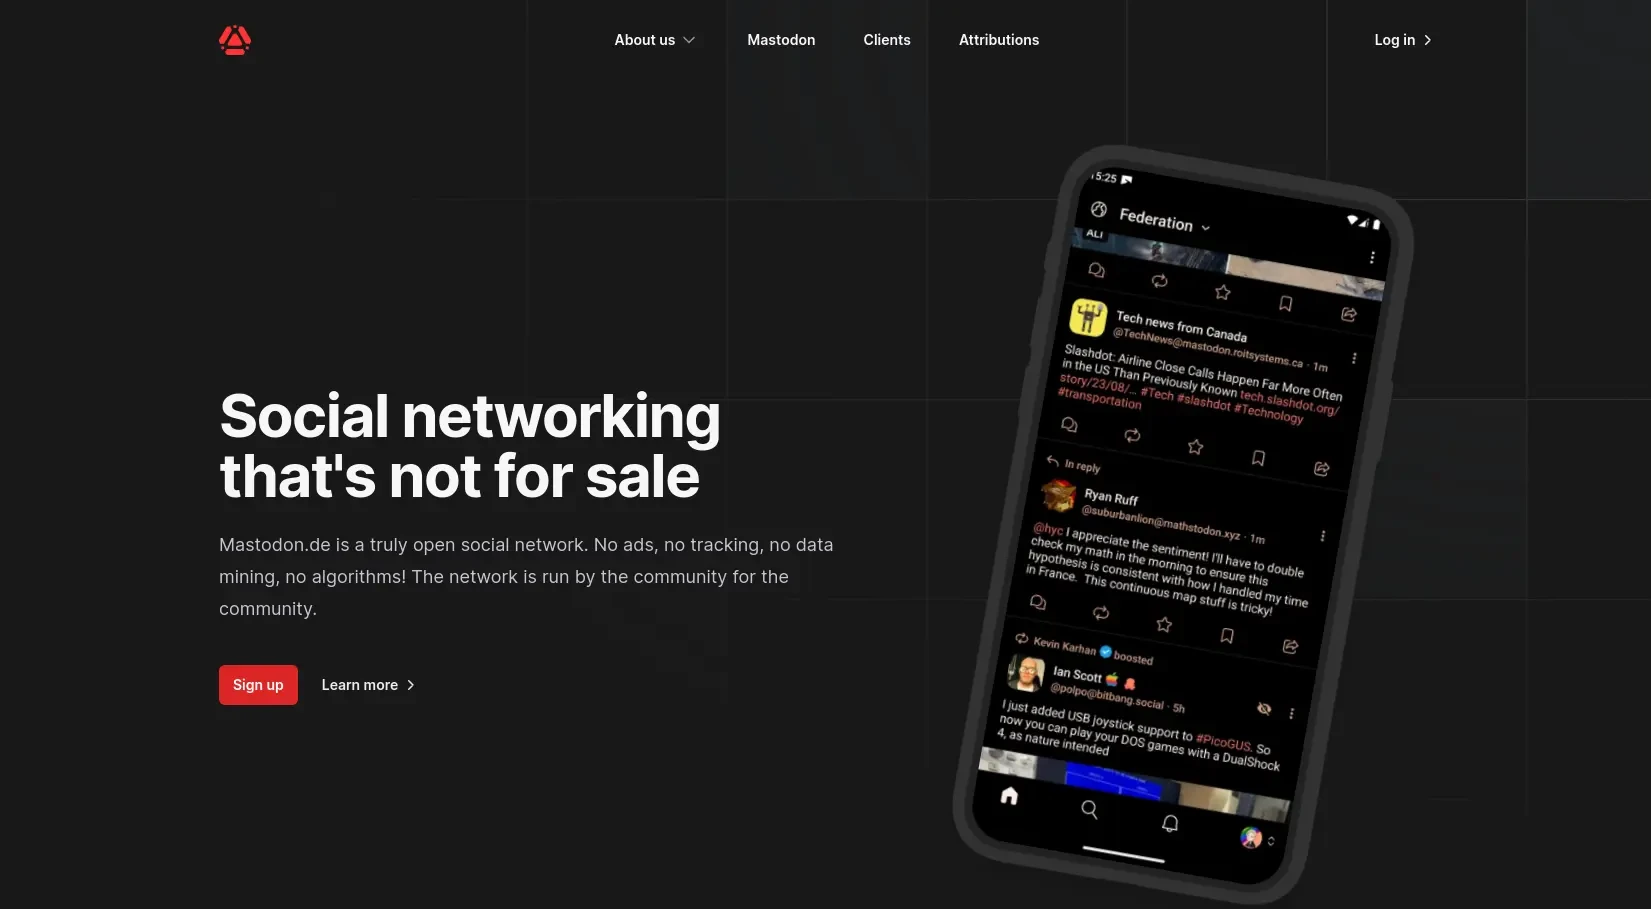
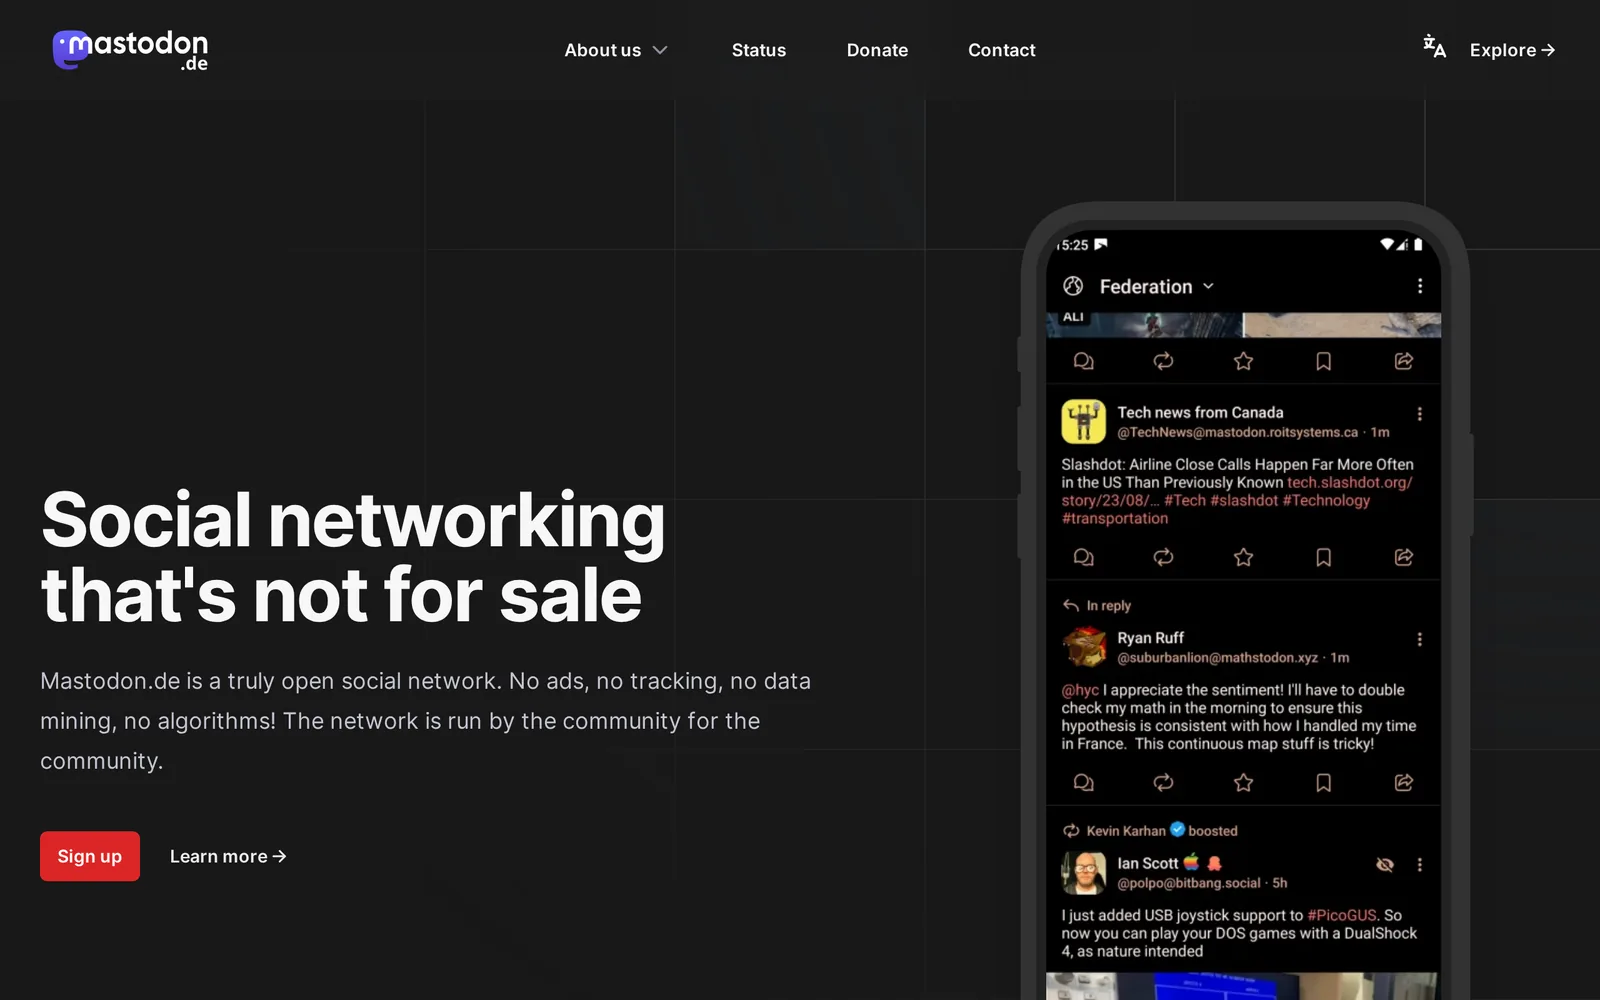
content: Refresh project screenshots

diff --git a/src/data/home.ts b/src/data/home.ts
@@ -10,13 +10,16 @@ import type Stat from "@cpluspatch/ui/astro/blocks/stat.astro";
 import type { DisplayEffect } from "@cpluspatch/ui/astro/sections/display/display-menu.astro";
 import type { DialogueNode } from "@cpluspatch/ui/behaviours/interactive-message.ts";
 import type { ComponentProps } from "astro/types";
-import componentScreenshot from "../../docs/assets/gallery-dark.webp";
 import flaviScreenshot from "../images/assets/flavi-screenshot.png";
+import galleryDark from "../images/assets/gallery-dark.webp";
+import galleryLight from "../images/assets/gallery-light.webp";
 import joinMastodonScreenshot from "../images/assets/join-mastodon.de_en.webp";
-import kitsuScreenshot from "../images/assets/kitsudotlife.png";
+import kitsuScreenshot from "../images/assets/kitsu.webp";
 import versiaApiScreenshot from "../images/assets/lysand-apis.png";
-import versiaFeScreenshot from "../images/assets/versia-fe.png";
-import versiaScreenshot from "../images/assets/versia-pub-frontpage.png";
+import versiaDark from "../images/assets/versia-dark.webp";
+import versiaFeDark from "../images/assets/versia-fe-dark.webp";
+import versiaFeLight from "../images/assets/versia-fe-light.webp";
+import versiaLight from "../images/assets/versia-light.webp";
 import versiaServerScreenshot from "../images/assets/versia-readme.png";
 import autumn from "../images/avatars/autumn.webp";
 import calciume from "../images/avatars/calciume.webp";
@@ -162,15 +165,51 @@ export const reviews: {
     },
 ];
 
-export const projects: (ComponentProps<typeof MediaCard> & {
+/**
+ * Versia, featured above the other projects on the home page. Its parts are
+ * the projects whose titles start with "Versia".
+ */
+export const versia = {
+    title: "Versia",
+    /** The site in each scheme, shown to match the reader's. */
+    shots: {
+        light: versiaLight,
+        dark: versiaDark,
+        alt: "The Versia site, headed Federation you can read, with a signed message beside notes on it",
+    },
+    body: "A decentralized federation protocol that focuses on good experience and ease of implementation, and everything around it: the spec, a reference server, a frontend and TypeScript APIs.",
+    links: [
+        { href: "https://versia.pub", icon: "lucide:globe", label: "Website" },
+        {
+            href: "https://github.com/versia-pub",
+            icon: "lucide:github",
+            label: "Source",
+        },
+        {
+            href: "https://opencollective.com/lysand",
+            icon: "lucide:euro",
+            label: "Donate",
+        },
+    ],
+};
+
+/**
+ * A header is in the dark scheme; `light` is the same capture in the light
+ * one, which the home page shows to readers in that scheme.
+ */
+export const projects: (Omit<ComponentProps<typeof MediaCard>, "header"> & {
     body: string;
+    header?: NonNullable<ComponentProps<typeof MediaCard>["header"]> & {
+        light?: ImageMetadata;
+    };
 })[] = [
     {
         title: "Website",
         body: "This site, and the component library it's built from. Plain HTML and CSS, with JavaScript only where it's needed.",
         header: {
-            src: componentScreenshot,
-            alt: "The component library",
+            src: galleryDark,
+            light: galleryLight,
+            alt: "The component gallery, with a card for each component",
         },
         links: [
             {
@@ -185,8 +224,8 @@ export const projects: (ComponentProps<typeof MediaCard> & {
         title: "Versia Protocol",
         body: "Fully documented protocol specification for Versia, a decentralized federation protocol that focuses on good experience and ease of implementation.",
         header: {
-            src: versiaScreenshot,
-            alt: "The Versia front page with multiple sections and a navigation bar",
+            src: versiaDark,
+            alt: "The Versia site, headed Federation you can read, with a signed message beside notes on it",
         },
         links: [
             {
@@ -230,8 +269,9 @@ export const projects: (ComponentProps<typeof MediaCard> & {
         title: "Versia-FE",
         body: "Frontend for Versia Server, made with Vue 3 and Tailwind CSS. It's a modern, responsive and fast web application.",
         header: {
-            src: versiaFeScreenshot,
-            alt: "Outdated Versia-FE screenshot, looking like a dashboard with a sidebar and a main content area",
+            src: versiaFeDark,
+            light: versiaFeLight,
+            alt: "Versia-FE, a timeline of posts beside a navigation sidebar",
         },
         links: [
             {
@@ -321,7 +361,7 @@ export const projects: (ComponentProps<typeof MediaCard> & {
         body: "Website for the Kitsu service suite, showcasing features and the community for Kitsu.",
         header: {
             src: kitsuScreenshot,
-            alt: "The Kitsu.life website",
+            alt: "Kitsu.life, headed Kitsu provides you with a family, beside a laptop showing its social app",
         },
         links: [
             {
